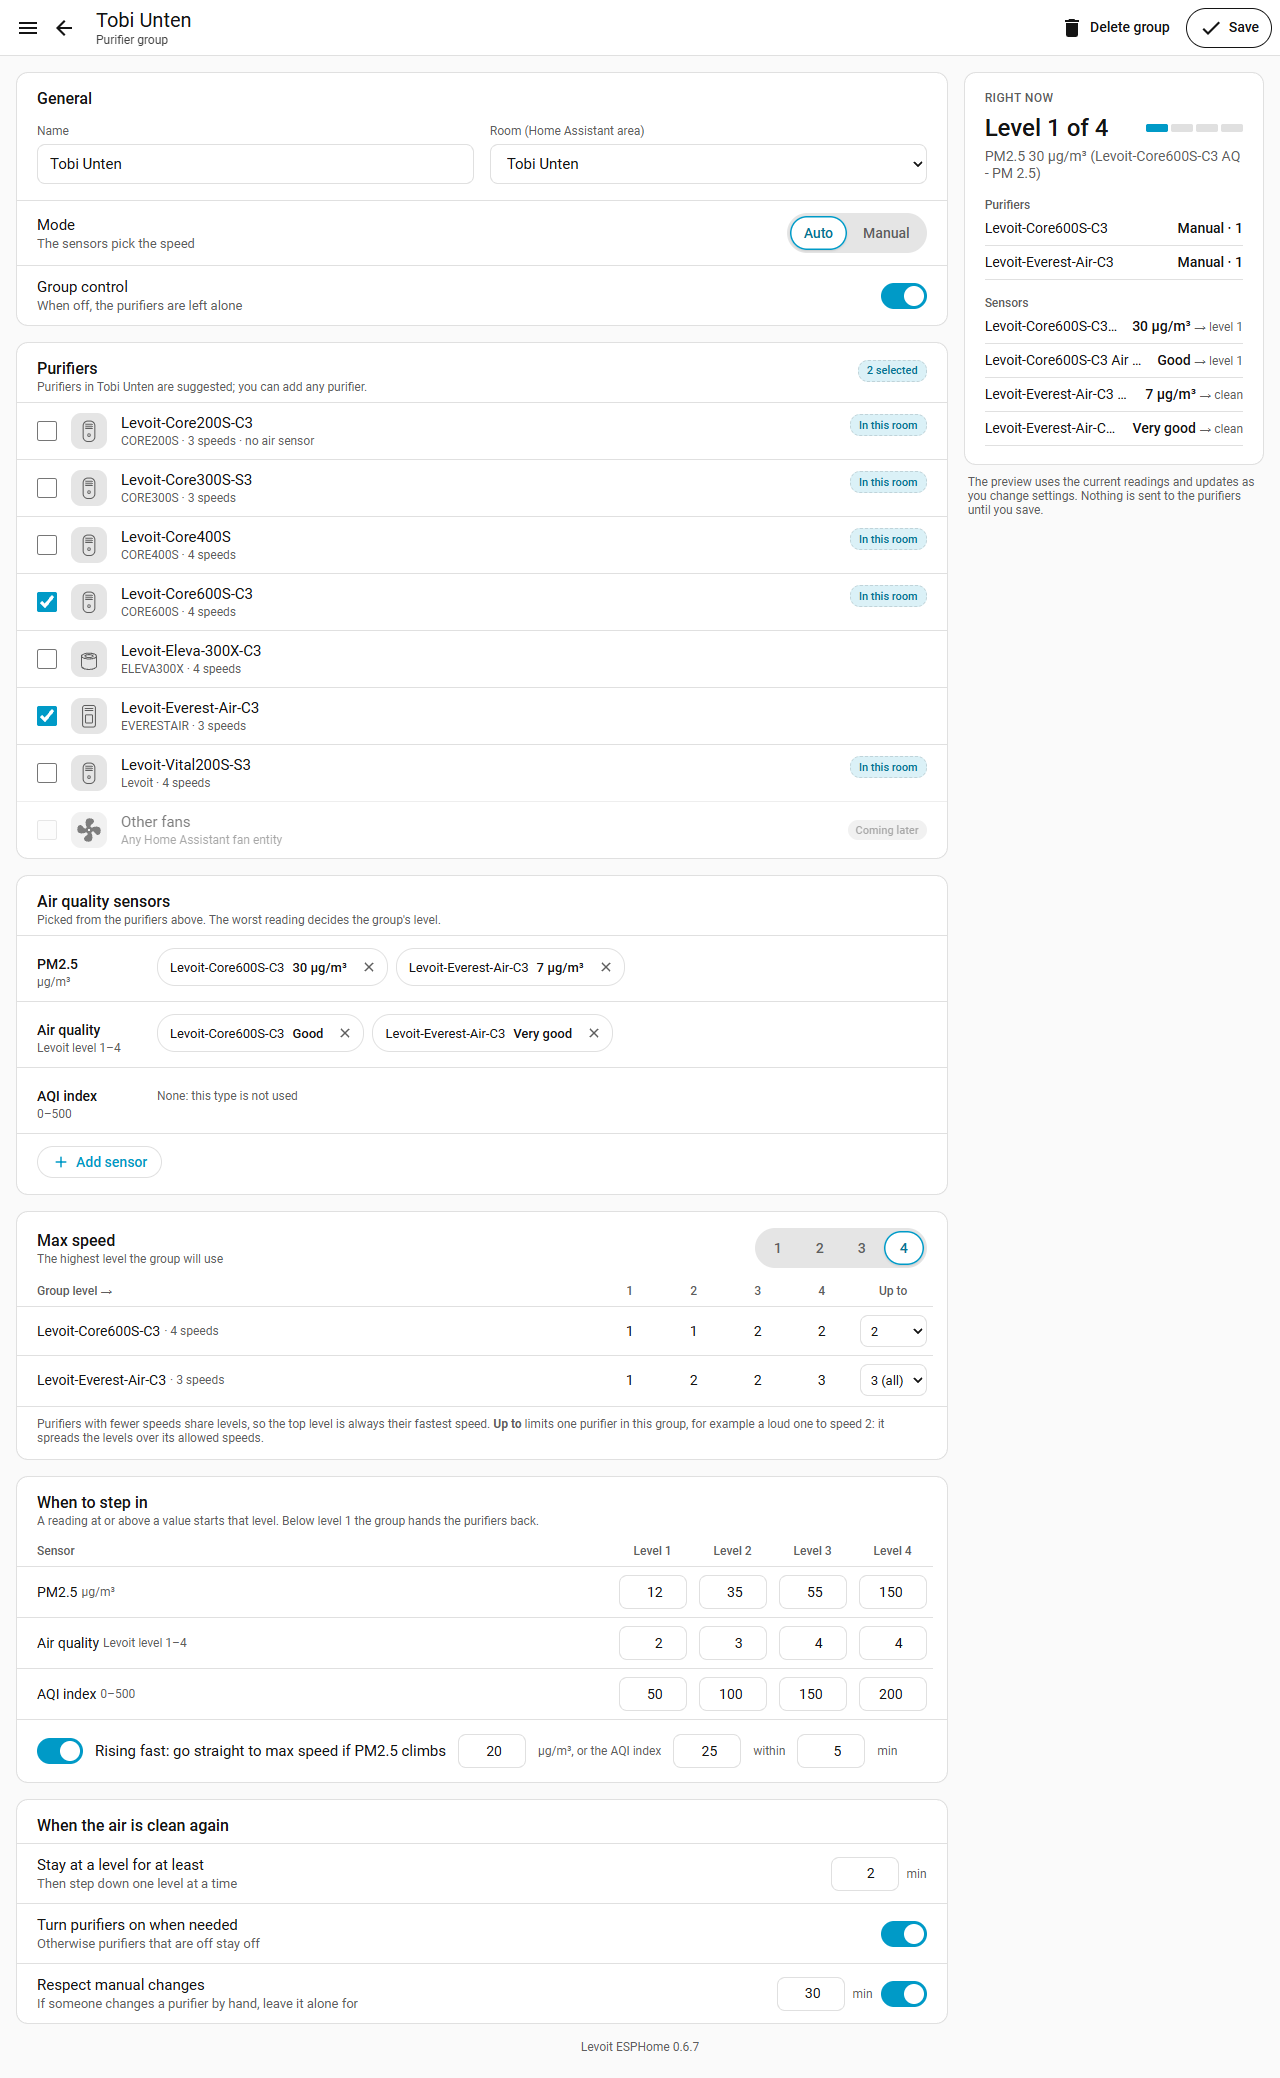
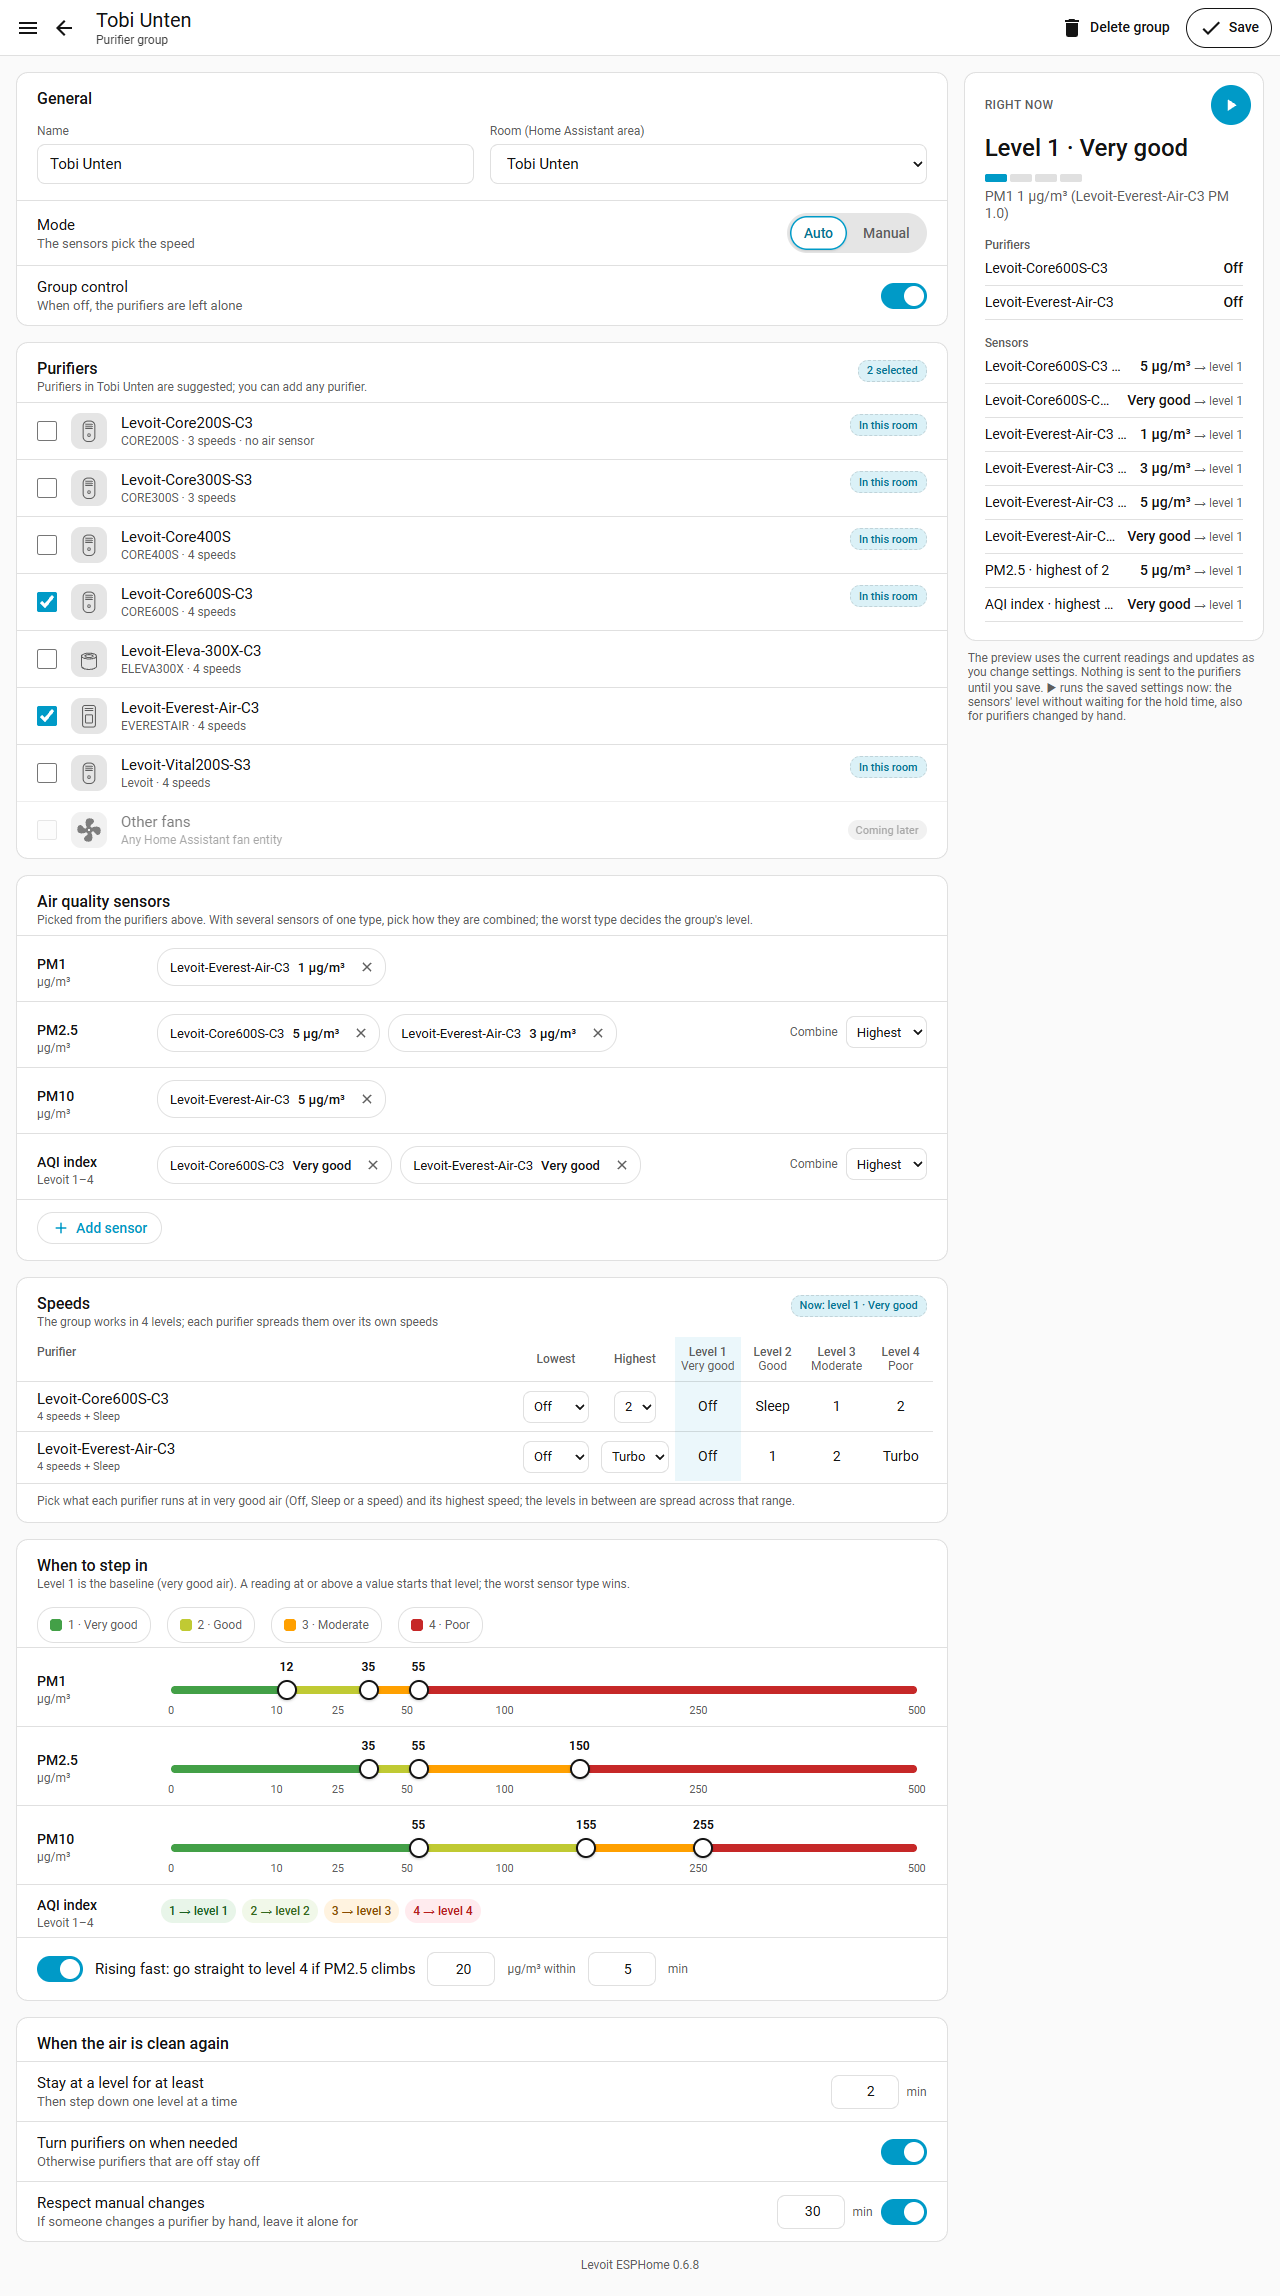
docs: README pictures of 0.6.8: the group page and the dashboard cards

diff --git a/README.md b/README.md
@@ -18,8 +18,8 @@ quality history and all its settings, grouped instead of one long list.
 [More](#use-and-set-up-your-purifiers)
 
 <p>
-  <img src="https://raw.githubusercontent.com/tuct/levoit-esphome-ha/main/images/overview.png?v=0.6.7" width="49%" alt="The sidebar page: seven purifiers as cards, each with power, mode and speed, PM2.5, AQI and CADR">
-  <img src="https://raw.githubusercontent.com/tuct/levoit-esphome-ha/main/images/device-page.png?v=0.6.7" width="49%" alt="The Everest Air's page: power, mode and speed, PM2.5, PM1.0, PM10, AQI and CADR, its group, the 24 hour history and the settings">
+  <img src="https://raw.githubusercontent.com/tuct/levoit-esphome-ha/main/images/overview.png?v=0.6.8" width="49%" alt="The sidebar page: seven purifiers as cards, each with power, mode and speed, PM2.5, AQI and CADR">
+  <img src="https://raw.githubusercontent.com/tuct/levoit-esphome-ha/main/images/device-page.png?v=0.6.8" width="49%" alt="The Everest Air's page: power, mode and speed, PM2.5, PM1.0, PM10, AQI and CADR, its group, the 24 hour history and the settings">
 </p>
 
 ### 2. Run several purifiers as one group
@@ -31,7 +31,7 @@ clears. Each group is also one fan entity, so a dashboard, voice or an
 automation runs the whole room like one purifier.
 [More](#purifier-groups)
 
-<img src="https://raw.githubusercontent.com/tuct/levoit-esphome-ha/main/images/groups.png?v=0.6.7" width="49%" alt="Purifier groups: a group of two purifiers in Auto at level 3 of 4, and a suggested room">
+<img src="https://raw.githubusercontent.com/tuct/levoit-esphome-ha/main/images/groups.png?v=0.6.8" width="49%" alt="Purifier groups: a group of two purifiers in Auto at level 3 of 4, and a suggested room">
 
 ### 3. Manage and update the devices
 
@@ -42,7 +42,7 @@ Device Builder and uploads it over the air. *Add device* makes the config for
 a new purifier.
 [More](#manage-and-update-the-devices)
 
-<img src="https://raw.githubusercontent.com/tuct/levoit-esphome-ha/main/images/panel-updates.png?v=0.6.7" width="49%" alt="Updates and config: every device with its channel, installed and latest version, and Compile and Update">
+<img src="https://raw.githubusercontent.com/tuct/levoit-esphome-ha/main/images/panel-updates.png?v=0.6.8" width="49%" alt="Updates and config: every device with its channel, installed and latest version, and Compile and Update">
 
 > **Early version.** Part of the
 > [firmware update plan](https://github.com/tuct/levoit/blob/main/docs/firmware-updates.md).
@@ -67,7 +67,7 @@ the model show an update that is out and the purifier's group (tinted while
 the group runs it). Offline cards keep their controls, greyed out. Click a
 card for the device's page.
 
-<img src="https://raw.githubusercontent.com/tuct/levoit-esphome-ha/main/images/overview.png?v=0.6.7" width="720" alt="Devices: purifiers as cards with power, mode and speed, PM2.5, AQI and CADR">
+<img src="https://raw.githubusercontent.com/tuct/levoit-esphome-ha/main/images/overview.png?v=0.6.8" width="720" alt="Devices: purifiers as cards with power, mode and speed, PM2.5, AQI and CADR">
 
 ### Device page
 
@@ -89,7 +89,7 @@ Assistant's device page. It needs no Device Builder config: the settings are
 found by their entity names, as the tuct/levoit configs name them (or as the
 device's config does, when there is one).
 
-<img src="https://raw.githubusercontent.com/tuct/levoit-esphome-ha/main/images/device-page.png?v=0.6.7" width="720" alt="A device page: power, mode and speed, PM2.5, AQI and CADR, the 24 hour history in one chart, and the settings">
+<img src="https://raw.githubusercontent.com/tuct/levoit-esphome-ha/main/images/device-page.png?v=0.6.8" width="720" alt="A device page: power, mode and speed, PM2.5, AQI and CADR, the 24 hour history in one chart, and the settings">
 
 ## Purifier groups
 
@@ -117,12 +117,14 @@ with the page closed and after a restart.
   sensors' level without waiting for the hold time, also for purifiers that
   were changed by hand.
 
-<img src="https://raw.githubusercontent.com/tuct/levoit-esphome-ha/main/images/groups.png?v=0.6.7" width="720" alt="Purifier groups: each group with its level, reason, sensors and purifiers">
+<img src="https://raw.githubusercontent.com/tuct/levoit-esphome-ha/main/images/groups.png?v=0.6.8" width="720" alt="Purifier groups: each group with its level, reason, sensors and purifiers">
 
 Each group has a page of its own: power, Auto or Manual and the level, a tile
 per sensor type with the group's combined value and the purifiers' total
 CADR, their history over 24 hours or 7 days with the level as a band, and its
 purifiers with their state, sensors and filter. *Edit group* opens the editor.
+
+<img src="https://raw.githubusercontent.com/tuct/levoit-esphome-ha/main/images/group-page.png?v=0.6.8" width="720" alt="A group's page: power, Auto or Manual and level 1 to 4, tiles for PM2.5, AQI index and CADR, the 24 hour history with the level as a band, and its two purifiers">
 
 The editor picks the sensors from the purifiers and takes others from Home
 Assistant, sets how several sensors of one type are combined, the thresholds,
@@ -130,7 +132,7 @@ the hold time and each purifier's lowest and highest step, and shows live what
 the group would do right now. Rooms in Home Assistant with 2 or more purifiers
 are suggested as groups.
 
-<img src="https://raw.githubusercontent.com/tuct/levoit-esphome-ha/main/images/group-editor.png?v=0.6.7" width="720" alt="The group editor: purifiers, sensors, thresholds, the speed each purifier runs per level, and what the group would do now">
+<img src="https://raw.githubusercontent.com/tuct/levoit-esphome-ha/main/images/group-editor.png?v=0.6.8" width="720" alt="The group editor: purifiers, sensors, thresholds, the speed each purifier runs per level, and what the group would do now">
 
 Each group gets a device of its name, for dashboards, voice and automations:
 
@@ -177,6 +179,8 @@ shows as the top speed (the Everest Air's Turbo mode, the Eleva's level 4).
 In Sleep, Auto or Pet the speeds are dimmed and show what it runs at; picking
 one switches to Manual.
 
+<img src="https://raw.githubusercontent.com/tuct/levoit-esphome-ha/main/images/cards-purifier.png?v=0.6.8" width="720" alt="The purifier card in its sizes: large with PM2.5, AQI, CADR, speeds and mode; small with the speeds; medium with PM2.5 large, the speeds and the modes; compact with the state only">
+
 ### Group card
 
 ```yaml
@@ -199,6 +203,8 @@ the group's control: off lets go of the purifiers and greys out the controls.
 A level switches the group to Manual at that level. Without an AQI index the
 group shows its air quality (its own thresholds, 1–4).
 
+<img src="https://raw.githubusercontent.com/tuct/levoit-esphome-ha/main/images/cards-group.png?v=0.6.8" width="720" alt="The group card in its sizes: large with the level bars, PM2.5, AQI index, CADR, its purifiers, Auto or Manual and the levels; medium; small with Auto and the levels in one row; compact">
+
 ### List card
 
 ```yaml
@@ -214,6 +220,8 @@ grid_options:
 
 A row per group and purifier: its PM2.5 and air quality, the mode and the
 speed (for a group the level) as lists, and power. The name opens the dialog.
+
+<img src="https://raw.githubusercontent.com/tuct/levoit-esphome-ha/main/images/cards-list.png?v=0.6.8" width="720" alt="The list card: a group with its two purifiers under it, then the other purifiers, each with PM2.5, mode, speed or level and power; narrow at 6 columns with the lists on a second line">
 
 ## Manage and update the devices
 
@@ -235,7 +243,7 @@ The sidebar page's third tab has:
 * links to each device's page, the Device Builder and Add device; *check now*
   reads the latest versions from GitHub without waiting for the 6 hours
 
-<img src="https://raw.githubusercontent.com/tuct/levoit-esphome-ha/main/images/panel-updates.png?v=0.6.7" width="720" alt="Updates and config: every device with model, channel, installed and latest version, and Compile, Update and Log">
+<img src="https://raw.githubusercontent.com/tuct/levoit-esphome-ha/main/images/panel-updates.png?v=0.6.8" width="720" alt="Updates and config: every device with model, channel, installed and latest version, and Compile, Update and Log">
 
 ### Extra ESP or original ESP
 
@@ -593,8 +601,11 @@ pip install playwright
 HA_URL=http://homeassistant.local:8123 HA_TOKEN=<token> python scripts/screenshots.py
 ```
 
-It saves `overview.png`, `device-page.png`, `groups.png`, `group-editor.png` and
-`panel-updates.png` to `images/`. `--device` and `--group` pick which device and
-group, `--only overview groups` takes some, `--dark` uses the dark theme,
+It saves `overview.png`, `device-page.png`, `groups.png`, `group-page.png`,
+`group-editor.png` and `panel-updates.png` to `images/`, and the dashboard cards
+in their sizes as `cards-purifier.png`, `cards-group.png` and `cards-list.png`
+(drawn on the page as a sections view would, nothing is added to a dashboard).
+Home Assistant has to run the version in the manifest. `--device` and `--group`
+pick which device and group, `--only overview groups` takes some, `--dark` uses the dark theme,
 `--sidebar` keeps Home Assistant's sidebar and `--scale 2` makes them
 sharper.
